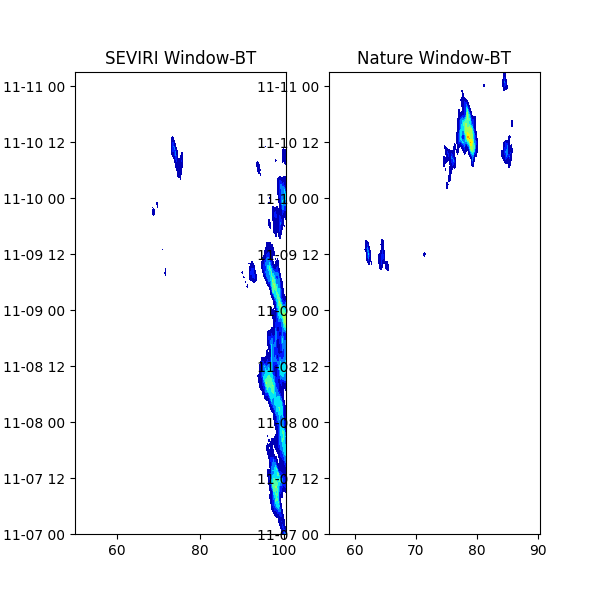
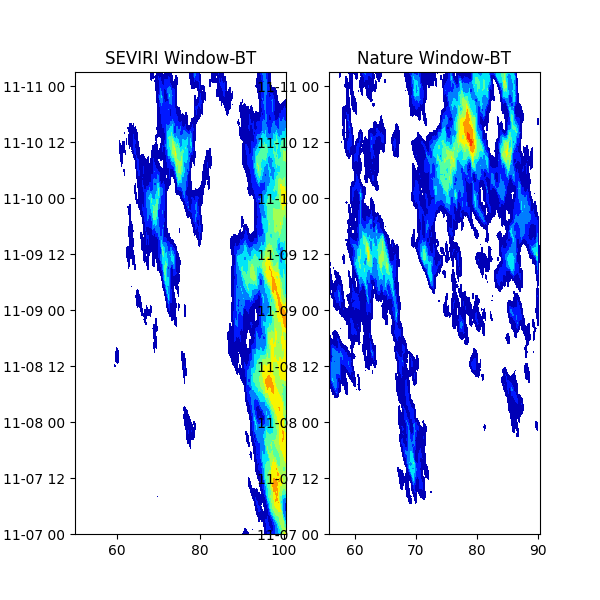
meow

diff --git a/nature_run/validate_nature_run.py b/nature_run/validate_nature_run.py
@@ -146,7 +146,7 @@ hov_data = pickle.load( f )
 # Generate figure object
 fig, axs = plt.subplots( ncols = 2, nrows = 1, figsize=(6,6) )
 
-crange = np.linspace(220,240,11)
+crange = np.linspace(220,260,11)
 cmap = 'jet_r'
 
 # Plot seviri stuff
